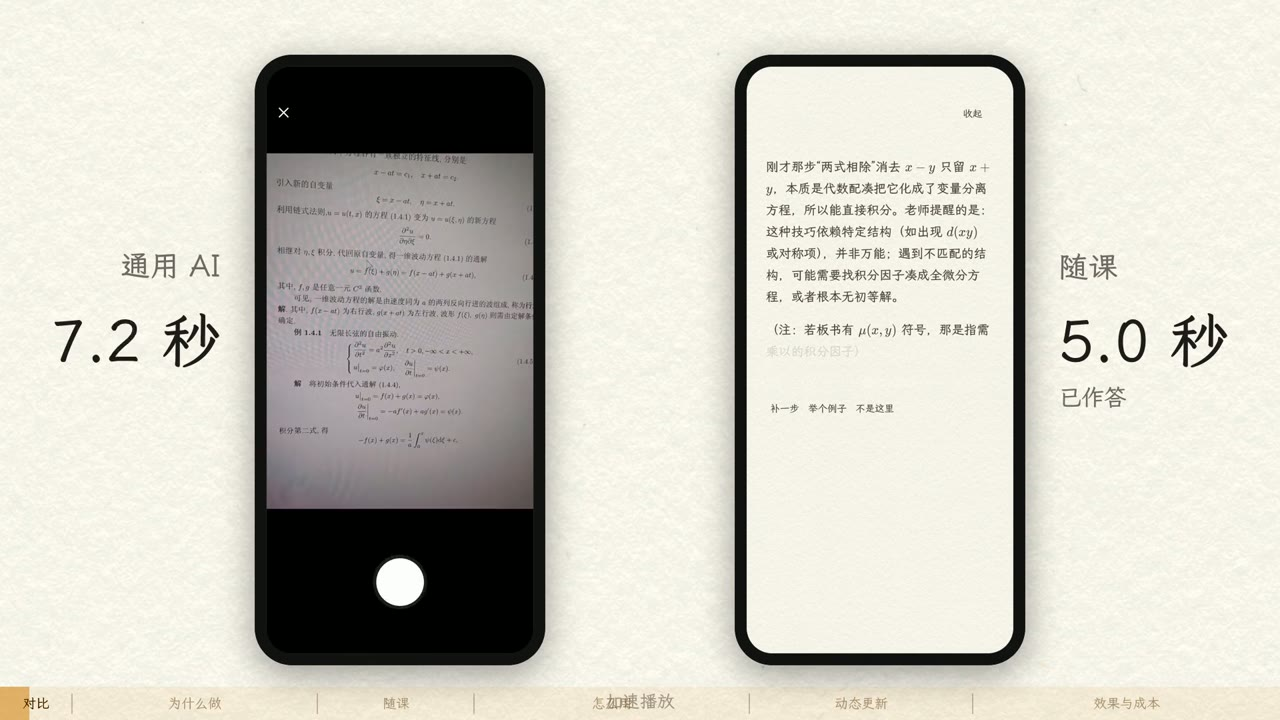
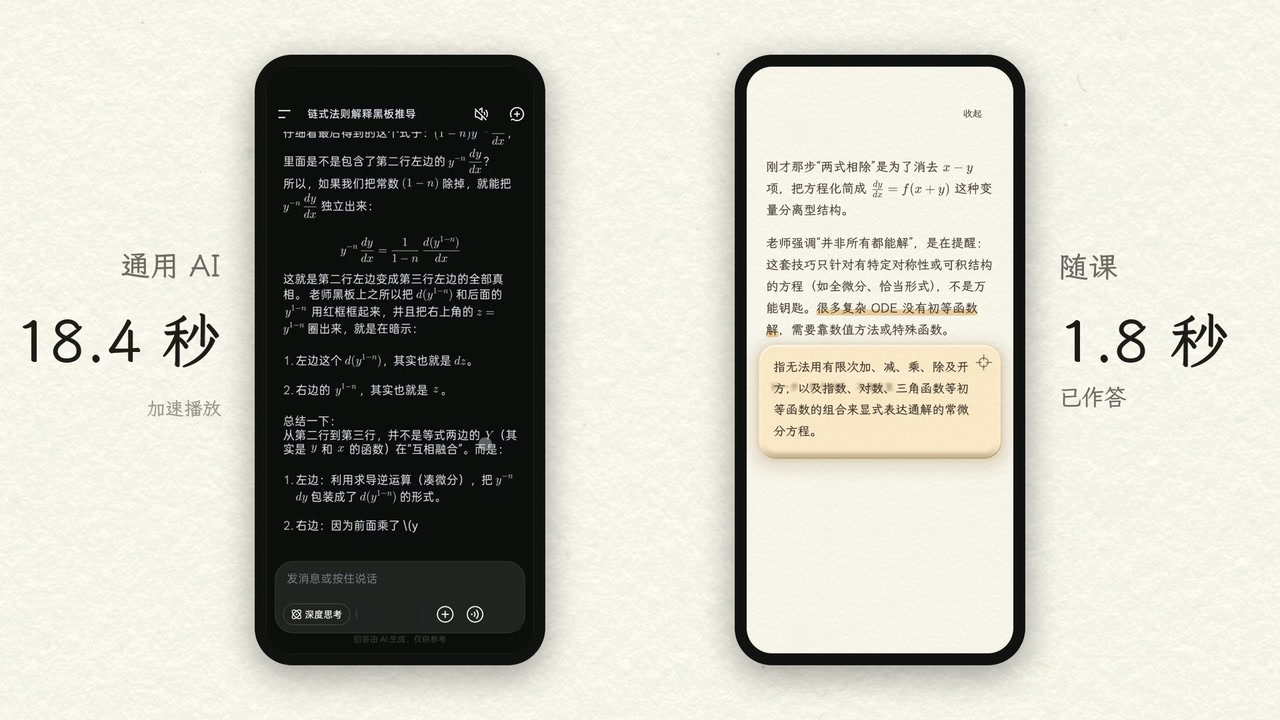
落地页：封面换成对比画面（18.4 秒 vs 1.8 秒）

diff --git a/intro.html b/intro.html
@@ -103,7 +103,7 @@ body.ppt-expanded{overflow:hidden}
       <span class="meta">2 分 57 秒 · 有旁白，请打开声音 · <a href="intro/suike-video.mp4" download="随课-作品视频.mp4">下载视频</a></span>
     </div>
     <div class="frame">
-      <img class="video-cover" src="intro/f06273fab179c31c/poster.jpg" alt="" width="1280" height="720" fetchpriority="high"><button id="play" type="button">▶ 播放作品视频</button><video id="video-player" controls playsinline preload="none" poster="intro/f06273fab179c31c/poster.jpg" hidden></video>
+      <img class="video-cover" src="intro/f06273fab179c31c/poster-v11.jpg" alt="" width="1280" height="720" fetchpriority="high"><button id="play" type="button">▶ 播放作品视频</button><video id="video-player" controls playsinline preload="none" poster="intro/f06273fab179c31c/poster-v11.jpg" hidden></video>
     </div>
     <div class="video-tools">
       <label>画质 <select id="quality"><option value="smooth">流畅 · 720p</option><option value="hd">高清 · 1080p</option></select></label>
